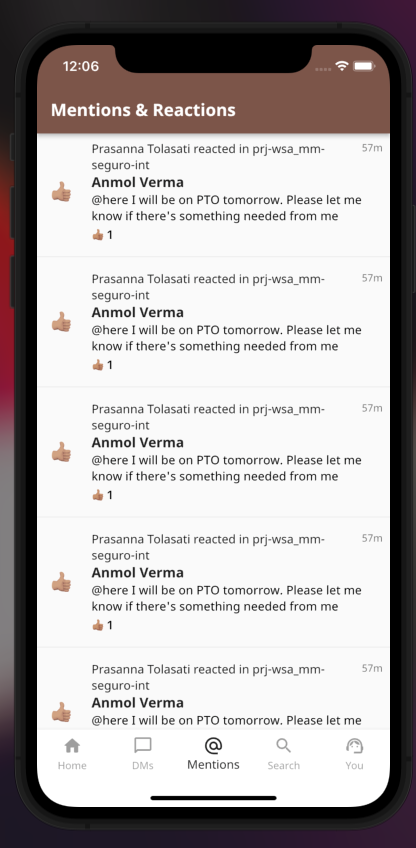
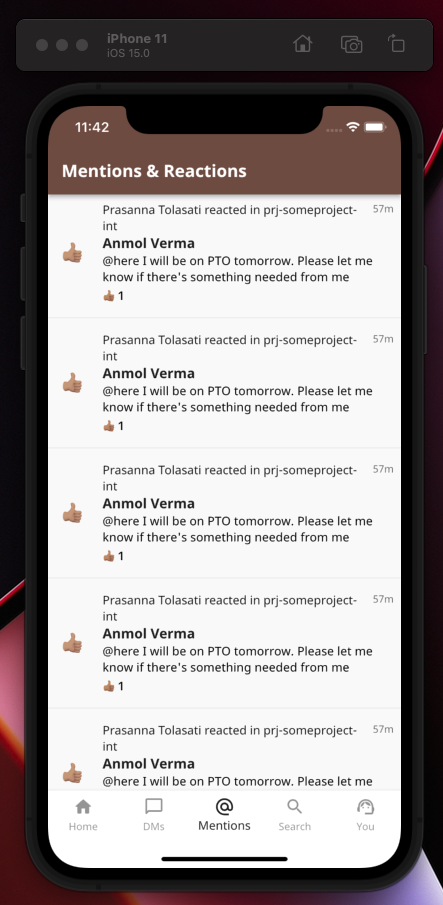
updated: screenshot

diff --git a/lib/app/pages/dashboard/pages/mentions/sk_mention_item.dart b/lib/app/pages/dashboard/pages/mentions/sk_mention_item.dart
@@ -19,11 +19,11 @@ class SKMentionItem extends StatelessWidget {
                 children: [
                   Expanded(
                       child: Text(
-                          "Prasanna Tolasati reacted in prj-wsa_mm-seguro-int",
+                          "Prasanna Tolasati reacted in prj-someproject-int",
                           style: GoogleFonts.notoSans())),
                   Text("57m",
                       style: GoogleFonts.notoSans(
-                          textStyle: Get.textTheme.caption))
+                          textStyle: Get.textTheme.caption)).paddingOnly(left: 8)
                 ],
                 crossAxisAlignment: CrossAxisAlignment.start,
               ),
